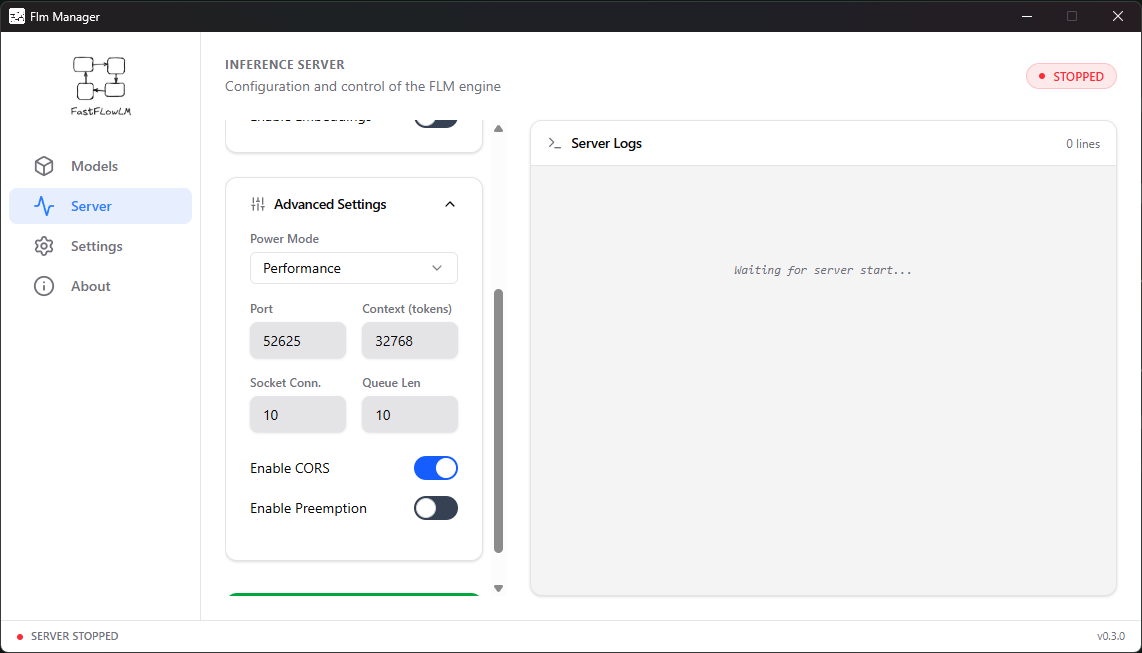
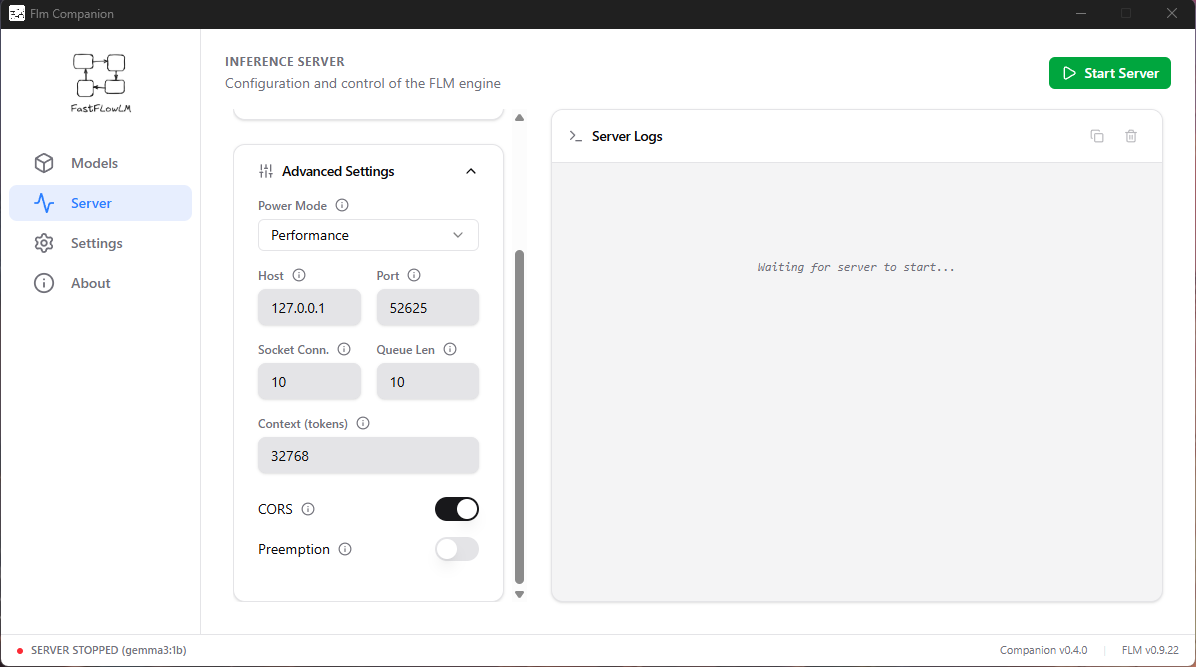
update screen and readme

diff --git a/README.md b/README.md
@@ -24,11 +24,12 @@ Flm Compagnon is a modern GUI designed to accompany and manage the **FastFlowLM 
 
 * **Models**: Model manager (download, delete, inspect details).
 * **Server**: Configuration and management of the FLM server instance.
-* **System Tray**: Quick access to server controls and status from the notification area.
+* **System Tray**: Quick access to server controls, **model selection**, and status directly from the notification area.
+* **Auto-start**: Option to launch the application automatically at Windows startup.
 * **Start Minimized**: Option to launch the application minimized to the system tray (configurable in settings).
 * **Settings**: Application customization.
 * **About**: View application version, hardware information, and check for updates.
-* **Multilingual**: Interface management in English and French.
+* **Multilingual**: Interface management in **English, French, and Japanese**.
 * **Theme**: Management of light and dark themes.
 
 ## 📸 Screens
@@ -56,21 +57,35 @@ Flm Compagnon is a modern GUI designed to accompany and manage the **FastFlowLM 
 
 ### 🔔 System Tray
 
-| Notification Menu |
-|:---:|
-| [![Notification](screen/notification.png)](screen/notification.png) |
-| *Quick access to server controls from system tray* |
+| Server gestion | Models gestion |
+|:---:|:---:|
+| [![Server](screen/notification.png)](screen/notification.png) | [![Models](screen/notification_models.png)](screen/notification_models.png) |
+| *Quick access to server controls from system tray* | *Quick access to models controls from system tray* |
 
 ## 📋 To do
 
+* [ ] Add a startup check when FLM is launched (verify model availability and server prerequisites)  
+* [ ] Add an automatic update check at application startup  
+* [ ] Finalize saving and loading of custom usage configuration (persist user presets)  
+* [ ] Add an in-app memory / resource calculator for chosen model + server configuration  
+* [ ] Add NPU and RAM usage monitoring and display (real-time stats) 
+* [ ] Ensure "Run at startup" setting is preserved across updates and installer actions
+
+<details>
+
+<summary>Completed</summary>
+
 * [X] Clean code and optimisation
-* [ ] Fix the server management design for consistency
+* [X] Fix the server management design for consistency
 * [X] Add a version check for the companion application (+ changelog)
 * [X] Add caching for the list of models, CPU version, and RAM
 * [X] Force an update of the model list on the server configuration side when models are modified (DLL, delete)
-* [ ] Add menus to the notification area icon (server management, models)
+* [X] Add menus to the notification area icon (server management, models)
 * [X] Complete the translation of all texts for multilingual support
 * [X] Flm update 0.9.21 → add the option to launch the server without a model using ASR for Whisper
+* [X] Flm update 0.9.22 → add the option to launch the server with host parameters
+
+</details>
 
 ## 🤝 Contribution
 
